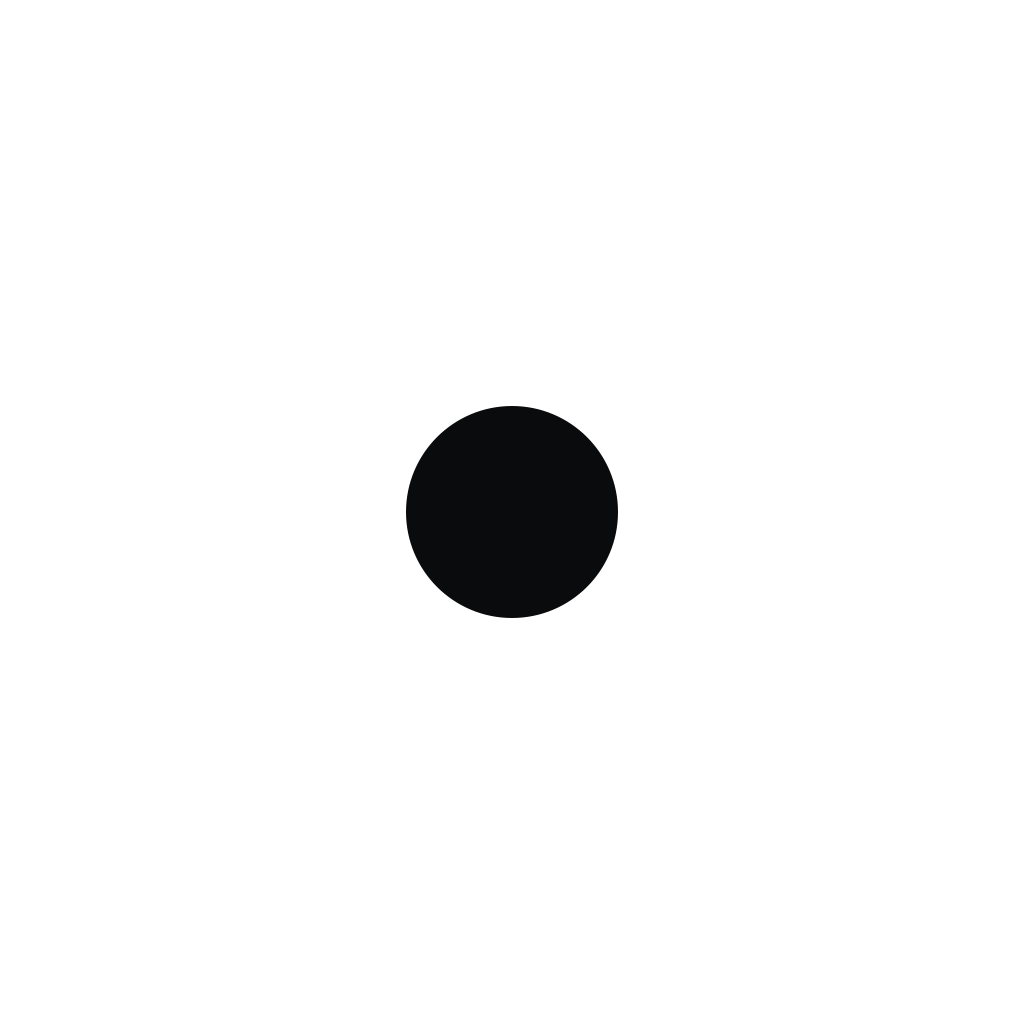
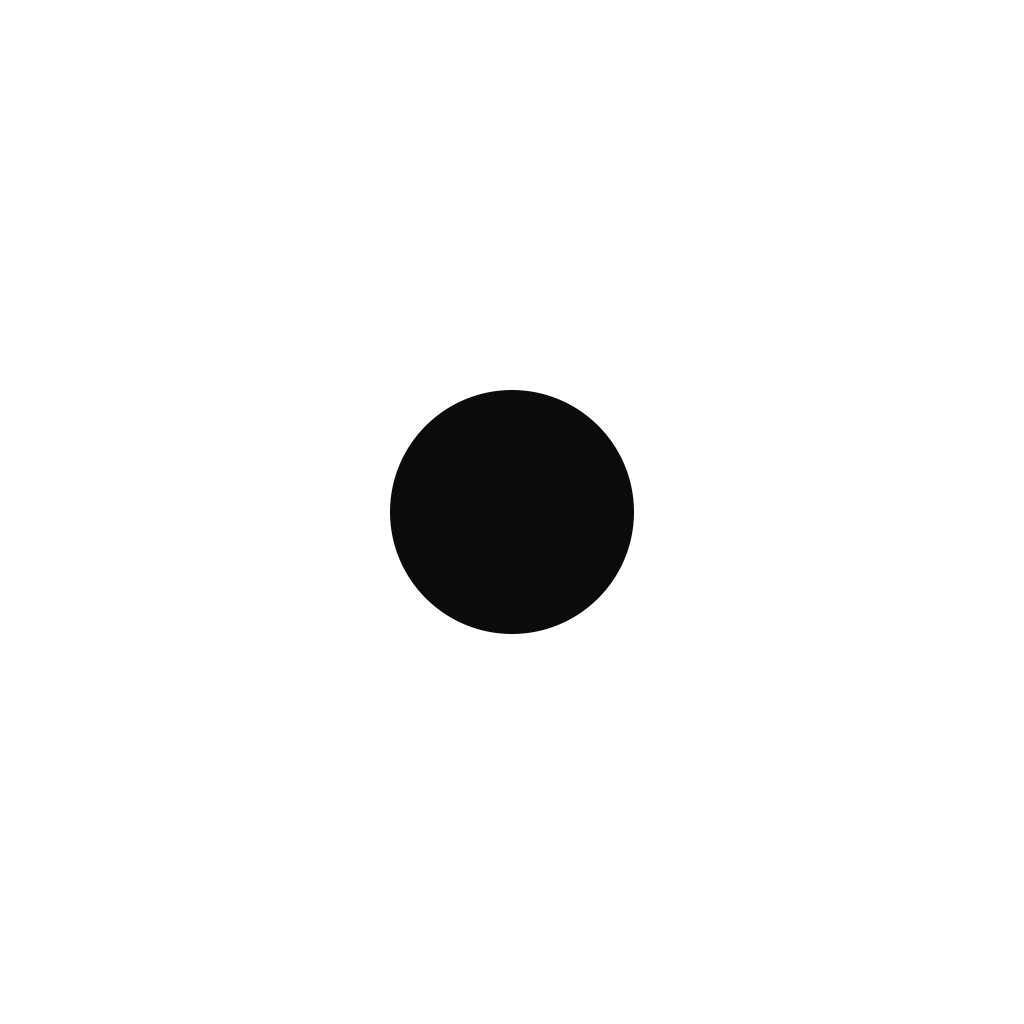
[优化] 图标定稿:放大15%+240°弧+#3BEC64亮绿点,docs同步,前版归档
- 几何整体放大15%(环半径277/弧宽80/轨道48/绿点84/背板122),提升图标存在感
- 负载弧扫角270°→240°,下端点收至8点钟位,构图留白更舒适
- 核心点 #2D9578→#3BEC64,信号感更强
- docs 四张文档图标按扁平管线同步重出
- 前一版(270°/#2D9578)完整归档至 legacy-assets/icons/05-menubar-faithful-270deg

Changed region(s): [[0.375, 0.375, 0.625, 0.625]]

diff --git a/scripts/export_icon_layers.swift b/scripts/export_icon_layers.swift
@@ -14,13 +14,13 @@ guard args.count == 3, kinds.contains(args[1]) else {
 let canvas: CGFloat = 1024
 let center = CGPoint(x: canvas / 2, y: canvas / 2)
 
-// 几何规范：源码 18px 画布按比例放大到图标网格（环半径维持 241 适配 824 内容区）
-// 源码: ring dia 13, arc lineWidth ~2.17(中载), track 1.35, core dia ~3.95, backplate +1.8
-let ringRadius: CGFloat = 241
-let arcWidth: CGFloat = 76        // 2.17/13 × 482 ≈ 80,微调至 76 保持弧线优雅
-let trackWidth: CGFloat = 47      // 1.35/2.17 × 76
-let dotRadius: CGFloat = 73       // 3.95/13 × 241
-let backplateRadius: CGFloat = 106 // 5.75/13 × 241
+// 几何规范：源码 18px 画布按比例放大到图标网格，整体再放大 15% 提升图标存在感
+// 源码: ring dia 13, arc lineWidth ~2.31(75%负载), track 1.35, core dia ~3.95, backplate +1.8
+let ringRadius: CGFloat = 277
+let arcWidth: CGFloat = 80        // 86 收至 80,减弱圆头端点在缺口处的视觉膨胀
+let trackWidth: CGFloat = 48      // 1.35/2.31 × 80
+let dotRadius: CGFloat = 84       // 73 × 1.15
+let backplateRadius: CGFloat = 122 // 106 × 1.15
 
 let colorSpace = CGColorSpace(name: CGColorSpace.sRGB)!
 guard let ctx = CGContext(data: nil, width: Int(canvas), height: Int(canvas),
@@ -47,10 +47,10 @@ case "ring-dark", "ring-light":
     ctx.setLineWidth(trackWidth)
     ctx.strokeEllipse(in: circle(ringRadius))
 
-    // 2. 负载弧:源码从 90°(顶部)顺时针,取 75% 负载 → 270°,缺口=左上象限
+    // 2. 负载弧:源码从 90°(顶部)顺时针,扫角 240° → 下端点收在 8 点钟位置,缺口 8点⇒12点
     let arcPath = CGMutablePath()
     arcPath.addArc(center: center, radius: ringRadius,
-                   startAngle: rad(90), endAngle: rad(-180), clockwise: true)
+                   startAngle: rad(90), endAngle: rad(-150), clockwise: true)
     ctx.addPath(arcPath)
     ctx.setStrokeColor(ink.copy(alpha: 0.95)!)
     ctx.setLineWidth(arcWidth)
@@ -66,8 +66,8 @@ case "backplate-dark", "backplate-light":
     ctx.fillEllipse(in: circle(backplateRadius))
 
 default:
-    // 核心点:用户指定 #2D9578,两种外观共用
-    ctx.setFillColor(CGColor(srgbRed: 0.176, green: 0.584, blue: 0.471, alpha: 1))
+    // 核心点:#3BEC64,两种外观共用
+    ctx.setFillColor(CGColor(srgbRed: 0.231, green: 0.925, blue: 0.392, alpha: 1))
     ctx.fillEllipse(in: circle(dotRadius))
 }
 

diff --git a/legacy-assets/README.md b/legacy-assets/README.md
@@ -10,8 +10,9 @@
 | `02-rounded-neon/` | 第二代 | 圆角合规修复版母版:烘焙官方圆角矩形+透明边距+标准投影,保留原霓虹风格 |
 | `03-redesign-variants/` | 重设计探索 | 矢量重绘三变体对比稿:A 克制霓虹 / B 纯扁平(后被采纳) / C 明亮霓虹,各含 1024+128 |
 | `04-flat-glass-layers/` | 第三代 | 扁平绿环液态玻璃版:Icon Composer 图层资产(ring/ring-light/dot)+icon.json+亮暗渲染预览 |
+| `05-menubar-faithful-270deg/` | 第四代初版 | 菜单栏源码还原首版:270°弧/#2D9578墨绿点/环半径241,含完整图层+icon.json+预览 |
 
-当前线上版本(第四代,按菜单栏 MenuBarComputeRingIcon.swift 源码结构还原)位于 `HagimiMonitor/AppIcon.icon/`,不在此归档;图层导出脚本为 `scripts/export_icon_layers.swift`。
+当前线上版本(第四代定稿:整体放大15%、240°弧止于8点钟位、#3BEC64亮绿点)位于 `HagimiMonitor/AppIcon.icon/`,不在此归档;图层导出脚本为 `scripts/export_icon_layers.swift`。
 
 ## posters/ — 海报与宣传图
 
